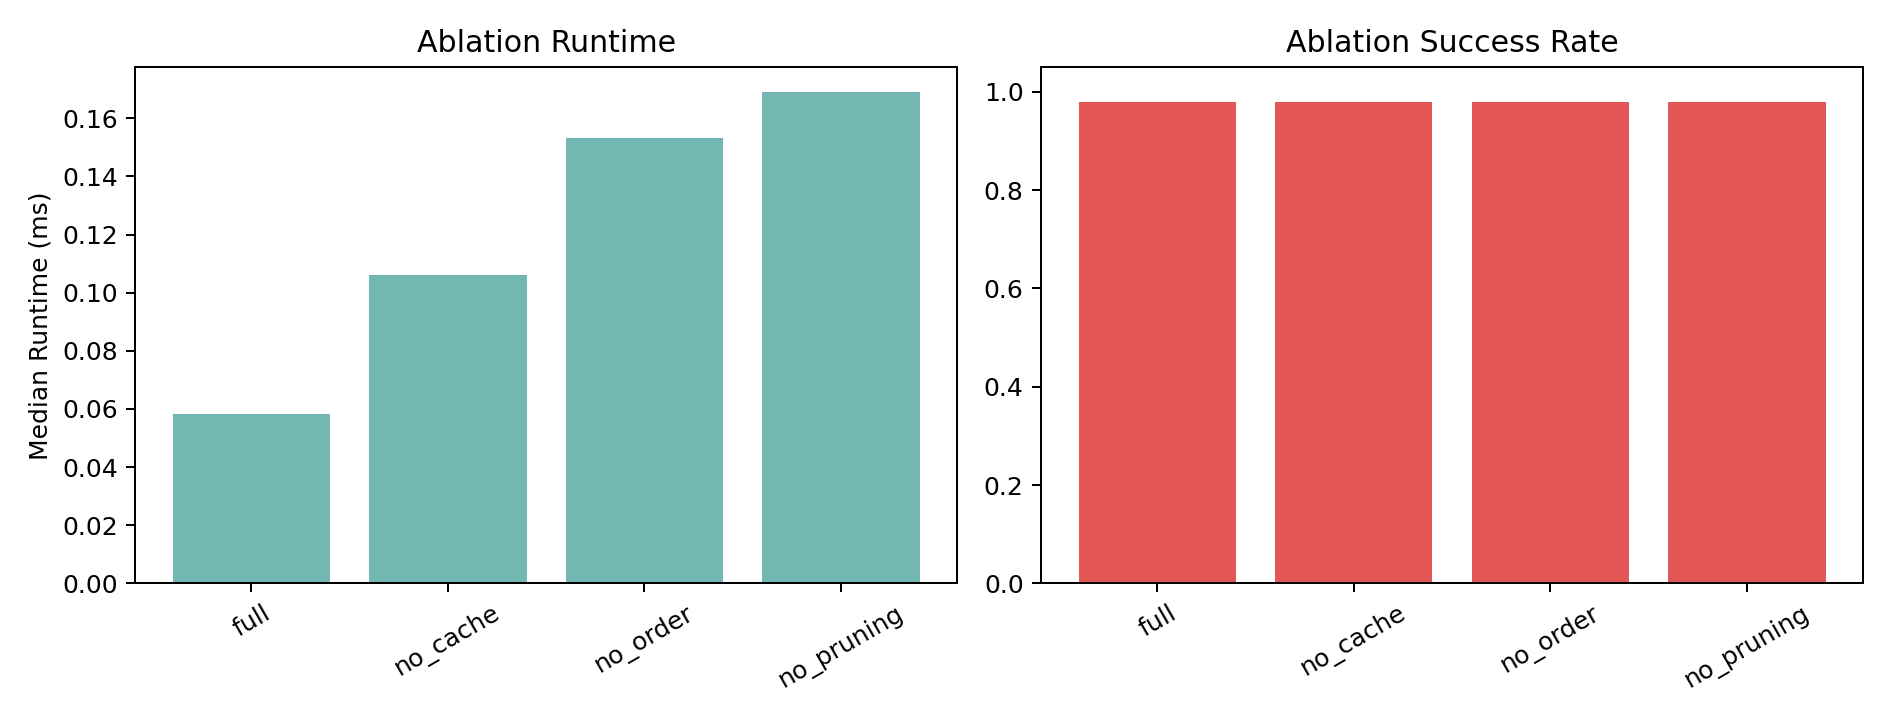
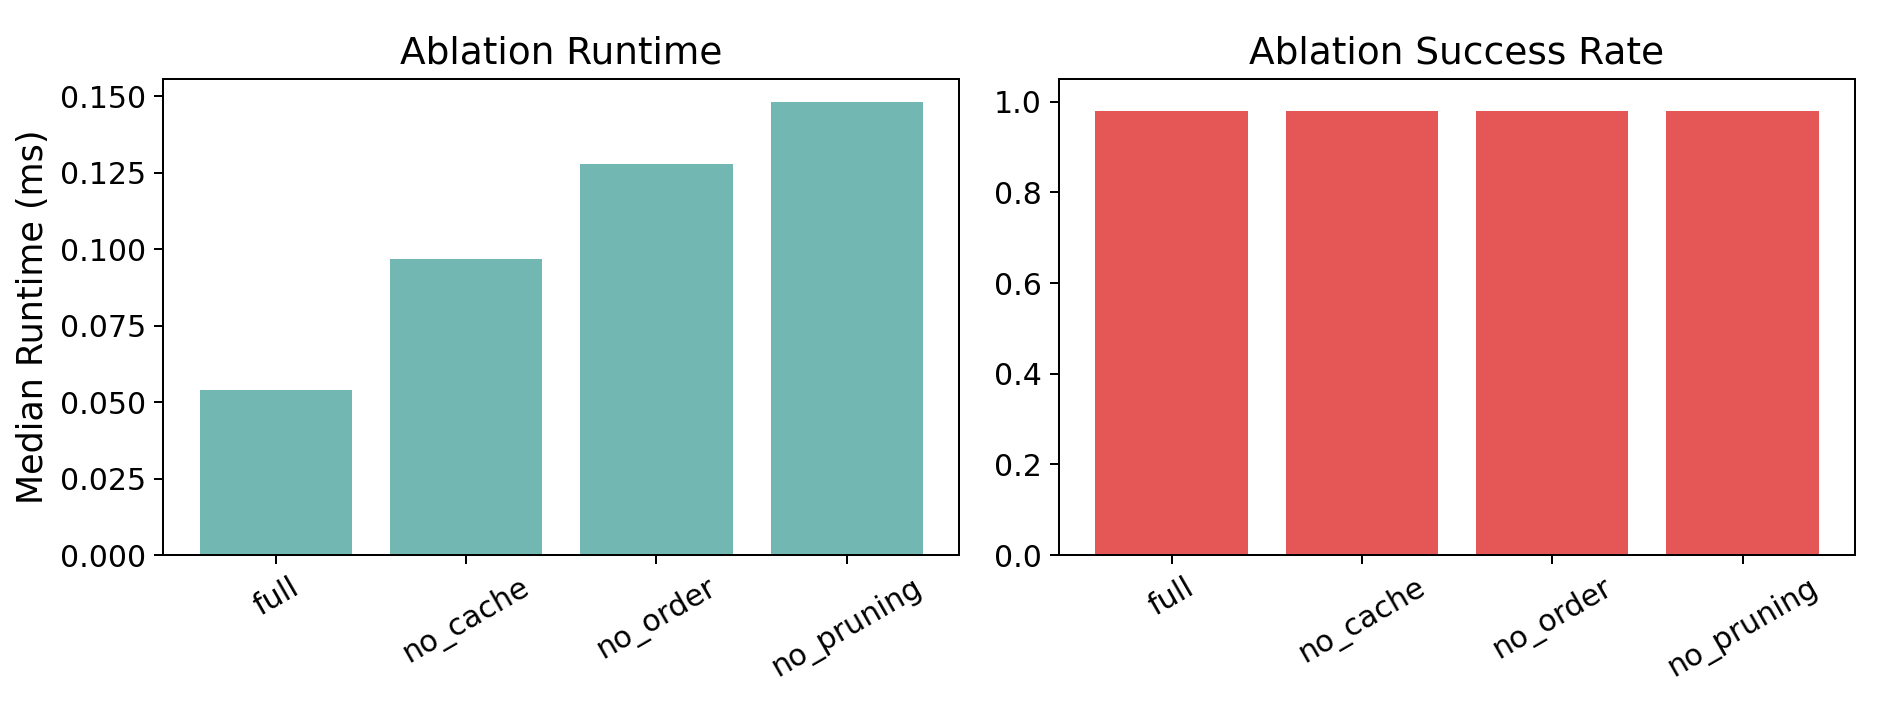
Increase figure font size and update figure width to 0.9\textwidth

Changed region(s): [[0.0, 0.0306, 0.9989, 0.9472]]

diff --git a/experiment/run_experiments.py b/experiment/run_experiments.py
@@ -20,6 +20,18 @@ ROOT = Path(__file__).resolve().parents[1]
 EXP_DIR = ROOT / "exp"
 FIG_DIR = ROOT / "figures"
 
+plt.rcParams.update({
+    "font.size": 13,
+    "axes.labelsize": 14,
+    "axes.titlesize": 15,
+    "xtick.labelsize": 12,
+    "ytick.labelsize": 12,
+    "legend.fontsize": 12,
+    "figure.titlesize": 16,
+    "lines.linewidth": 2.2,
+    "lines.markersize": 7,
+})
+
 
 @dataclass
 class Box:
